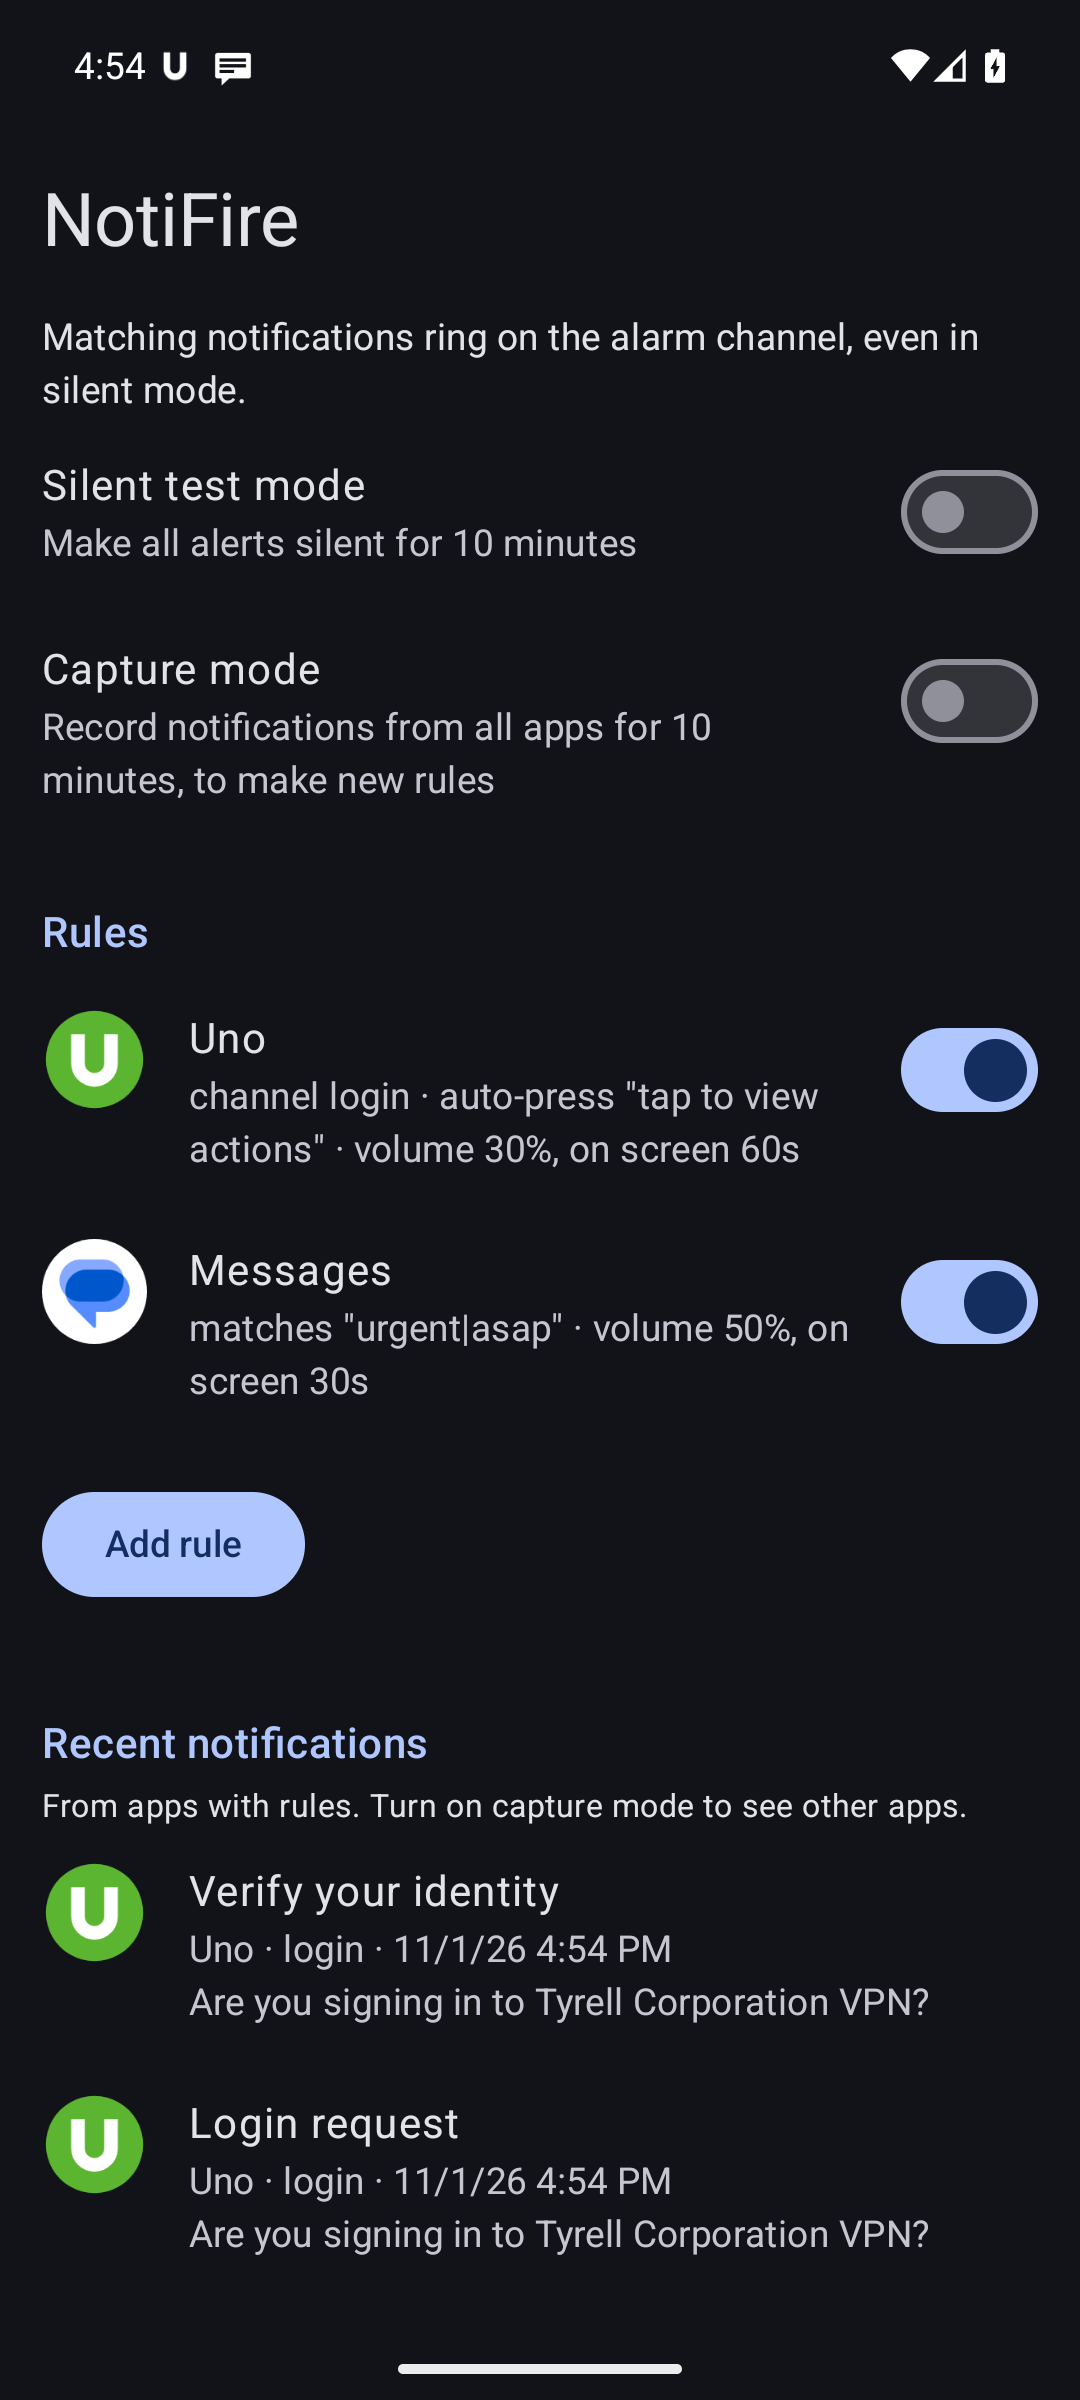
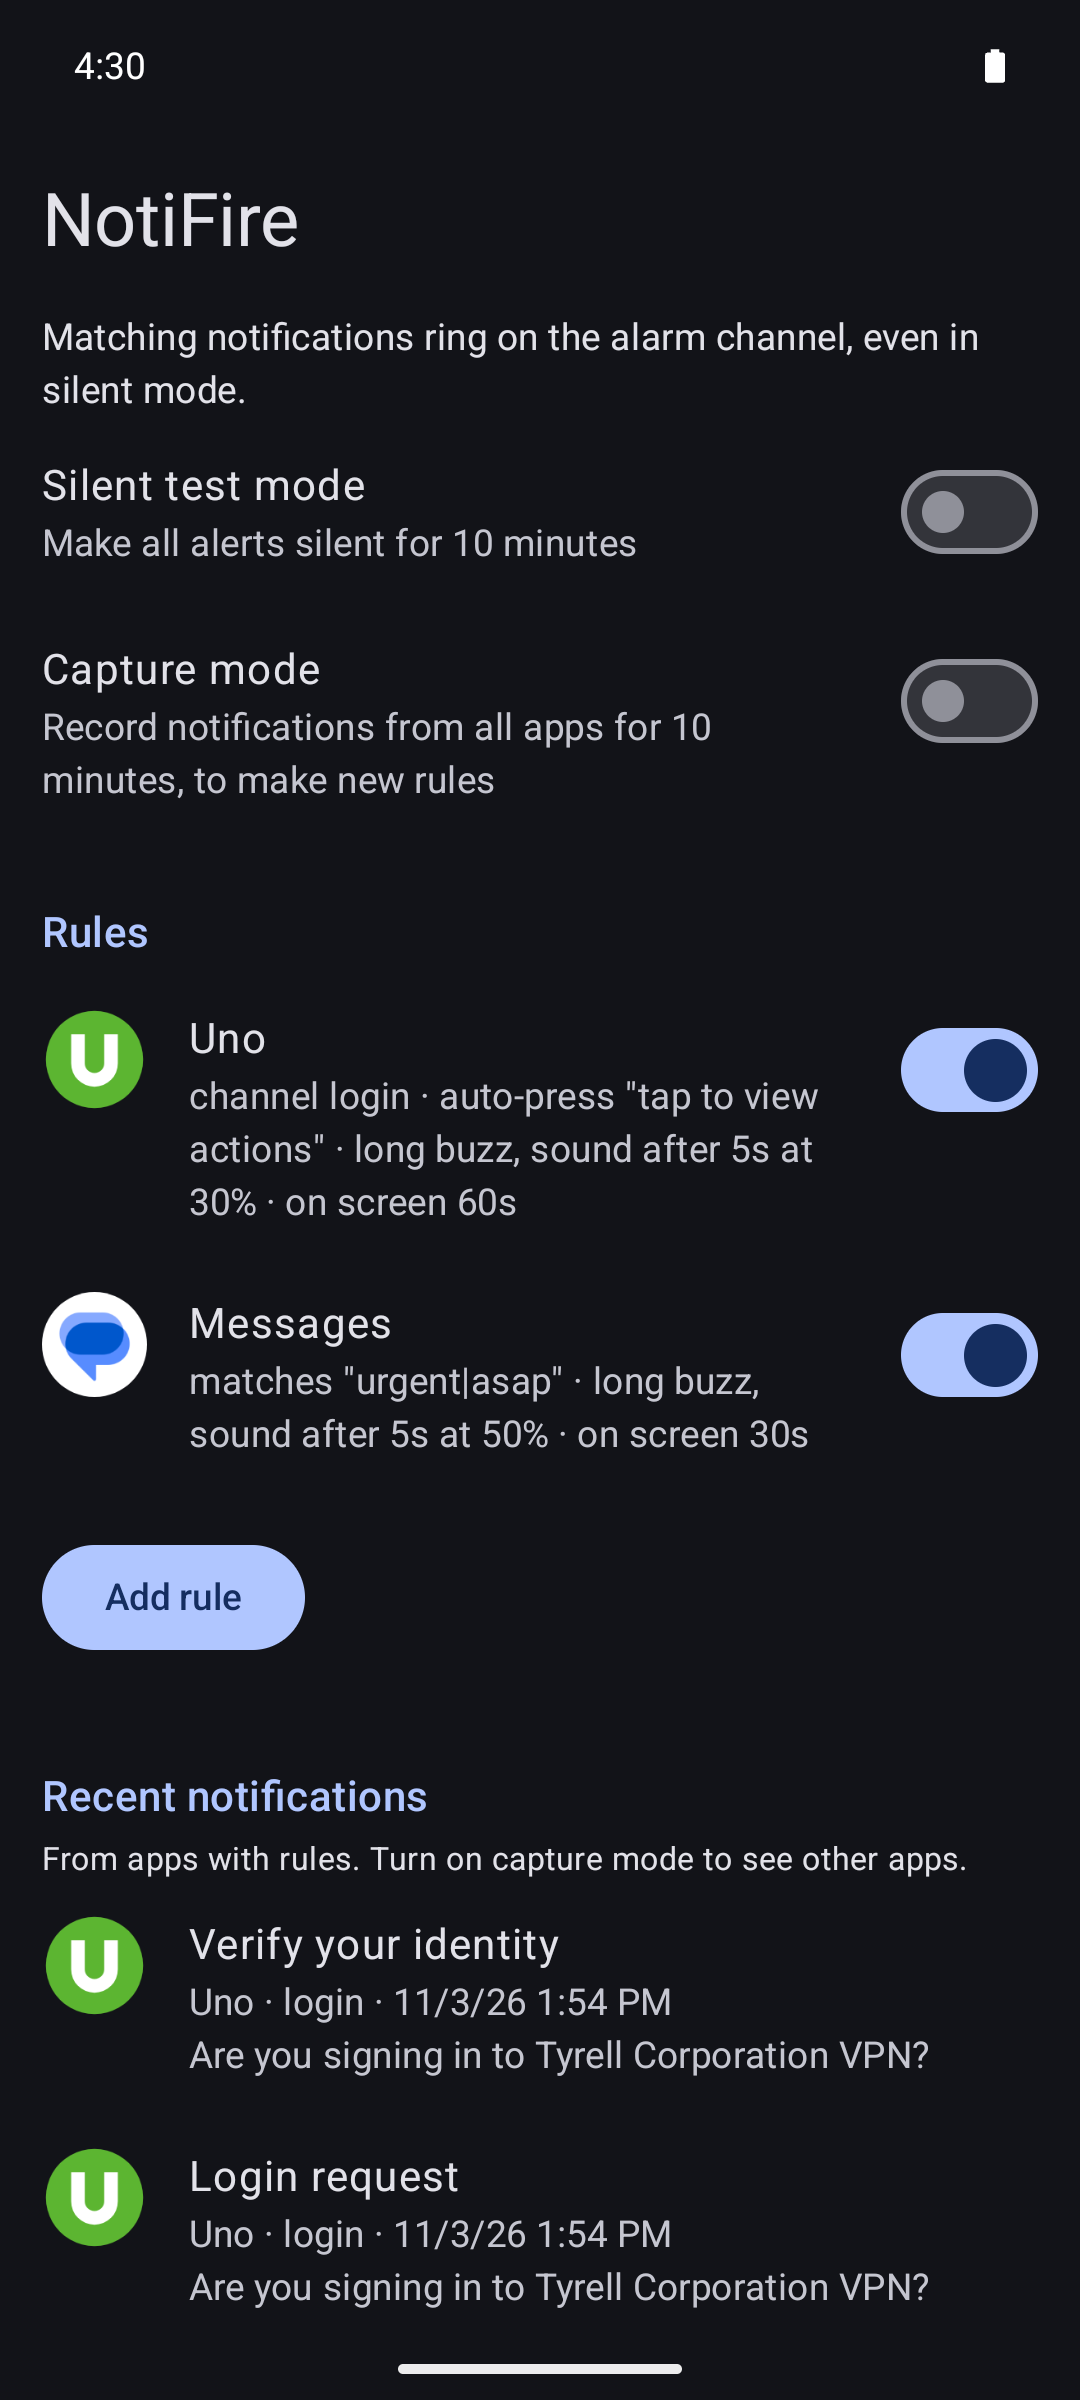
Escalating alerts, per-rule vibration, real Test button
- Alerts vibrate first; if nothing on the alert is pressed within the
  rule's escalateSec (default 5, 0 = sound right away), they vibrate
  again and play the sound. Any press cancels the escalation.
- Per-rule vibration pattern: off, short, long (default) or continuous.
- Rule editor: escalation delay field, vibration chips, and a Test
  button (real sound and vibration) next to Silent test. Tests stay up
  long enough to reach the escalation.
- Rule summary is shorter and may use three lines, so it no longer
  gets cut off.
- README and home / rule-editor screenshots updated.

diff --git a/app/src/main/java/com/mbafford/notifire/MainActivity.kt b/app/src/main/java/com/mbafford/notifire/MainActivity.kt
@@ -27,12 +27,14 @@ import androidx.compose.foundation.layout.padding
 import androidx.compose.foundation.layout.size
 import androidx.compose.foundation.lazy.LazyColumn
 import androidx.compose.foundation.lazy.items
+import androidx.compose.foundation.horizontalScroll
 import androidx.compose.foundation.rememberScrollState
 import androidx.compose.foundation.text.KeyboardOptions
 import androidx.compose.foundation.verticalScroll
 import androidx.compose.material3.Button
 import androidx.compose.material3.Card
 import androidx.compose.material3.CardDefaults
+import androidx.compose.material3.FilterChip
 import androidx.compose.material3.HorizontalDivider
 import androidx.compose.material3.ListItem
 import androidx.compose.material3.MaterialTheme
@@ -197,7 +199,7 @@ private fun Home(
             ListItem(
                 leadingContent = { AppIcon(r.pkg) },
                 headlineContent = { Text(r.appLabel) },
-                supportingContent = { Text(r.summary(), maxLines = 2, overflow = TextOverflow.Ellipsis) },
+                supportingContent = { Text(r.summary(), maxLines = 3, overflow = TextOverflow.Ellipsis) },
                 trailingContent = { Switch(r.enabled, onCheckedChange = { onToggle(r, it) }) },
                 modifier = Modifier.clickable { onEdit(r) },
             )
@@ -286,6 +288,8 @@ private fun RuleEditor(
     var autoPress by remember { mutableStateOf(rule.autoPress) }
     var soundUri by remember { mutableStateOf(rule.soundUri) }
     var volumePct by remember { mutableIntStateOf(rule.volumePct) }
+    var escalate by remember { mutableStateOf(rule.escalateSec.toString()) }
+    var vibration by remember { mutableStateOf(rule.vibration) }
     val pickSound = rememberLauncherForActivityResult(ActivityResultContracts.StartActivityForResult()) { res ->
         if (res.resultCode != Activity.RESULT_OK) return@rememberLauncherForActivityResult
         val picked = res.data?.getParcelableExtra(RingtoneManager.EXTRA_RINGTONE_PICKED_URI, Uri::class.java)
@@ -304,6 +308,8 @@ private fun RuleEditor(
         autoPress = autoPress.trim(),
         soundUri = soundUri,
         volumePct = volumePct,
+        escalateSec = escalate.toIntOrNull()?.coerceIn(0, 300) ?: 5,
+        vibration = vibration,
         enabled = true, // preview and test ignore the on/off switch
     )
 
@@ -359,6 +365,20 @@ private fun RuleEditor(
                 }) { Text("Choose") }
             },
         )
+        Text("Vibration", modifier = Modifier.padding(top = 8.dp))
+        Row(Modifier.horizontalScroll(rememberScrollState()), horizontalArrangement = Arrangement.spacedBy(8.dp)) {
+            Vibration.entries.forEach { v ->
+                FilterChip(selected = vibration == v, onClick = { vibration = v }, label = { Text(v.label) })
+            }
+        }
+        OutlinedTextField(
+            escalate, { escalate = it.filter(Char::isDigit) },
+            label = { Text("Vibrate only for (seconds) before sound") },
+            supportingText = { Text("Vibrates first; plays the sound if nothing is pressed by then. 0 = sound right away.") },
+            singleLine = true,
+            keyboardOptions = KeyboardOptions(keyboardType = KeyboardType.Number),
+            modifier = Modifier.fillMaxWidth(),
+        )
         Text("Volume: $volumePct% of alarm max", modifier = Modifier.padding(top = 8.dp))
         Slider(
             value = volumePct.toFloat(),
@@ -387,11 +407,19 @@ private fun RuleEditor(
 
         Row(horizontalArrangement = Arrangement.spacedBy(8.dp)) {
             Button(onClick = { onSave(draft.copy(enabled = enabled)) }) { Text("Save") }
-            OutlinedButton(onClick = {
-                Alerter.start(ctx, draft.copy(durationSec = 10), "test-${rule.id}", "Test alert", silent = true)
-            }) { Text("Silent test") }
             if (!isNew) TextButton(onClick = onDelete) { Text("Delete") }
             TextButton(onClick = onCancel) { Text("Cancel") }
+        }
+        // Tests use the unsaved settings and stay up long enough to reach the escalation.
+        val testRule = draft.copy(durationSec = maxOf(10, draft.escalateSec + draft.soundSec + 5))
+        Row(horizontalArrangement = Arrangement.spacedBy(8.dp), modifier = Modifier.padding(top = 4.dp)) {
+            // Real vibration and sound (unless silent test mode is on).
+            OutlinedButton(onClick = {
+                Alerter.start(ctx, testRule, "test-${rule.id}", "Test alert")
+            }) { Text("Test") }
+            OutlinedButton(onClick = {
+                Alerter.start(ctx, testRule, "test-${rule.id}", "Test alert", silent = true)
+            }) { Text("Silent test") }
         }
 
         SectionHeader("Recent from this app")
@@ -490,7 +518,9 @@ private fun Rule.summary(): String = listOfNotNull(
     channelId.ifBlank { null }?.let { "channel $it" },
     pattern.ifBlank { null }?.let { "matches \"$it\"" },
     autoPress.ifBlank { null }?.let { "auto-press \"$it\"" },
-    "volume $volumePct%, on screen ${durationSec}s",
+    (if (vibration == Vibration.OFF) "no buzz" else "${vibration.label.lowercase()} buzz") +
+        (if (escalateSec > 0) ", sound after ${escalateSec}s" else " + sound") + " at $volumePct%",
+    "on screen ${durationSec}s",
 ).joinToString(" · ").let { if (channelId.isBlank() && pattern.isBlank()) "any notification · $it" else it }
 
 private fun time(ms: Long): String = DateFormat.getDateTimeInstance(DateFormat.SHORT, DateFormat.SHORT).format(Date(ms))

diff --git a/app/src/main/java/com/mbafford/notifire/Alerter.kt b/app/src/main/java/com/mbafford/notifire/Alerter.kt
@@ -63,6 +63,7 @@ object Alerter {
     private val alertedAt = mutableMapOf<String, Long>()
     private val timeout = Runnable { appCtx?.let(::stop) }
     private val soundDone = Runnable { appCtx?.let(::stopSound) }
+    private val escalate = Runnable { escalateNow() }
     private val autoPressedAt = mutableMapOf<String, Long>()
     private val pendingAlerts = mutableMapOf<String, Runnable>()
 
@@ -137,8 +138,47 @@ object Alerter {
         stop(app)
         appCtx = app
         active = Active(rule, key, title, text, silent, contentIntent, actions)
-        Log.i("NotiFire", "alert rule=${rule.id} pkg=${rule.pkg} silent=$silent")
+        Log.i("NotiFire", "alert rule=${rule.id} pkg=${rule.pkg} silent=$silent escalateSec=${rule.escalateSec}")
 
+        // Vibrate first. If nothing is pressed within escalateSec, vibrate again and play the sound.
+        // Any press on the alert (button, open, stop) goes through stopSound, which cancels this.
+        vibrate(app, rule, silent)
+        if (rule.escalateSec <= 0) playSound(app, rule, silent)
+        else handler.postDelayed(escalate, rule.escalateSec * 1000L)
+
+        // A full-screen notification only takes over the screen when the phone is locked or idle.
+        // With "display over other apps" we're allowed to open the alert directly, even mid-use,
+        // and the notification is just a quiet status entry with a Stop button.
+        val direct = Settings.canDrawOverlays(app)
+        showNotification(app, rule, title, silent, direct)
+        if (direct) {
+            runCatching {
+                app.startActivity(Intent(app, AlertActivity::class.java).addFlags(Intent.FLAG_ACTIVITY_NEW_TASK))
+            }.onFailure { Log.w("NotiFire", "direct alert launch failed", it) }
+        }
+        handler.postDelayed(timeout, rule.durationSec * 1000L)
+    }
+
+    @Synchronized
+    private fun escalateNow() {
+        val a = active ?: return
+        val app = appCtx ?: return
+        Log.i("NotiFire", "no press after ${a.rule.escalateSec}s, escalating to sound silent=${a.silent}")
+        vibrate(app, a.rule, a.silent)
+        playSound(app, a.rule, a.silent)
+    }
+
+    /** Plays the rule's vibration pattern (see [Vibration]); a new call replaces the current one. */
+    private fun vibrate(app: Context, rule: Rule, silent: Boolean) {
+        val v = rule.vibration
+        if (silent || v == Vibration.OFF) return
+        app.getSystemService(VibratorManager::class.java).defaultVibrator.vibrate(
+            VibrationEffect.createWaveform(v.timings, v.repeat),
+            VibrationAttributes.createForUsage(VibrationAttributes.USAGE_ALARM),
+        )
+    }
+
+    private fun playSound(app: Context, rule: Rule, silent: Boolean) {
         val uri = rule.sound(app)
         if (!silent && uri != null) {
             val audio = app.getSystemService(AudioManager::class.java)
@@ -162,23 +202,7 @@ object Alerter {
             if (silent) volume = 0f
             play()
         }
-        if (!silent) app.getSystemService(VibratorManager::class.java).defaultVibrator.vibrate(
-            VibrationEffect.createWaveform(longArrayOf(0, 300, 150, 300), -1),
-            VibrationAttributes.createForUsage(VibrationAttributes.USAGE_ALARM),
-        )
-
-        // A full-screen notification only takes over the screen when the phone is locked or idle.
-        // With "display over other apps" we're allowed to open the alert directly, even mid-use,
-        // and the notification is just a quiet status entry with a Stop button.
-        val direct = Settings.canDrawOverlays(app)
-        showNotification(app, rule, title, silent, direct)
-        if (direct) {
-            runCatching {
-                app.startActivity(Intent(app, AlertActivity::class.java).addFlags(Intent.FLAG_ACTIVITY_NEW_TASK))
-            }.onFailure { Log.w("NotiFire", "direct alert launch failed", it) }
-        }
         handler.postDelayed(soundDone, rule.soundSec * 1000L)
-        handler.postDelayed(timeout, rule.durationSec * 1000L)
     }
 
     @Synchronized
@@ -187,9 +211,10 @@ object Alerter {
         if (key == active?.key) stop(ctx.applicationContext)
     }
 
-    /** Ends the sound and vibration but leaves the alert on screen. */
+    /** Ends the sound and vibration (and any pending escalation) but leaves the alert on screen. */
     @Synchronized
     fun stopSound(ctx: Context) {
+        handler.removeCallbacks(escalate)
         handler.removeCallbacks(soundDone)
         ringtone?.stop()
         ringtone = null

diff --git a/app/src/main/java/com/mbafford/notifire/Store.kt b/app/src/main/java/com/mbafford/notifire/Store.kt
@@ -24,6 +24,10 @@ data class Rule(
     val soundUri: String = "",
     /** Alarm volume while the sound plays, as a percent of max (restored afterwards). */
     val volumePct: Int = 30,
+    /** Vibrate first; if nothing is pressed within this many seconds, vibrate again and play the sound. 0 = sound right away. */
+    val escalateSec: Int = 5,
+    /** How hard to buzz, at the alert and again at escalation. */
+    val vibration: Vibration = Vibration.LONG,
 ) {
     /** The sound to play, or null for none. */
     fun sound(ctx: Context): Uri? = when (soundUri) {
@@ -52,7 +56,8 @@ data class Rule(
         .put("id", id).put("pkg", pkg).put("appLabel", appLabel).put("channelId", channelId)
         .put("pattern", pattern).put("durationSec", durationSec).put("soundSec", soundSec).put("enabled", enabled)
         .put("autoPress", autoPress).put("soundUri", soundUri)
-        .put("volumePct", volumePct)
+        .put("volumePct", volumePct).put("escalateSec", escalateSec)
+        .put("vibration", vibration.name.lowercase())
 
     companion object {
         fun fromJson(o: JSONObject) = Rule(
@@ -67,6 +72,8 @@ data class Rule(
             autoPress = o.optString("autoPress"),
             soundUri = o.optString("soundUri"),
             volumePct = o.optInt("volumePct", 30),
+            escalateSec = o.optInt("escalateSec", 5),
+            vibration = Vibration.parse(o.optString("vibration")),
         )
 
         const val NO_SOUND = "none"
@@ -87,6 +94,21 @@ data class Rule(
 
         /** Auto-press must never approve anything on its own; that would defeat 2FA prompts. */
         private val APPROVAL = Regex("approve|allow|accept|confirm|grant|\\byes\\b|verify", RegexOption.IGNORE_CASE)
+    }
+}
+
+/**
+ * Vibration patterns: alternating off/on milliseconds, and the index to repeat from (-1 = play once).
+ * A repeating pattern keeps going until a press, the end of the sound, or the alert closes.
+ */
+enum class Vibration(val label: String, val timings: LongArray, val repeat: Int) {
+    OFF("Off", longArrayOf(), -1),
+    SHORT("Short", longArrayOf(0, 300, 150, 300), -1),
+    LONG("Long", longArrayOf(0, 600, 250, 600, 250, 600), -1),
+    CONTINUOUS("Continuous", longArrayOf(0, 500, 400), 1);
+
+    companion object {
+        fun parse(s: String) = entries.firstOrNull { it.name.equals(s, ignoreCase = true) } ?: LONG
     }
 }
 

diff --git a/README.md b/README.md
@@ -13,7 +13,7 @@ I built it because two-factor push approvals arrive while my phone is on silent,
 
 <p>
   <img src="docs/screenshots/home.png" width="240" alt="Main screen listing two rules and recent notifications">
-  <img src="docs/screenshots/rule-editor.png" width="240" alt="Rule editor with channel, text filter, sound, volume and auto-press settings">
+  <img src="docs/screenshots/rule-editor.png" width="240" alt="Rule editor with vibration choices, delay before sound, volume, auto-press, and Test / Silent test buttons">
   <img src="docs/screenshots/app-picker.png" width="240" alt="Searchable app picker">
 </p>
 
@@ -22,11 +22,12 @@ I built it because two-factor push approvals arrive while my phone is on silent,
 ## What it does
 
 - **Rules per app.** Pick an app from a searchable list, or tap a recent notification to start a rule from it. You can narrow a rule to one notification channel and/or a regex on the title and text. The editor marks recent notifications from that app with ✓ or ✗ for whether the rule would match them.
-- **Gets through silent mode.** The sound plays on the alarm channel at a volume you set per rule (percent of alarm max). It plays once, with a short double buzz, and your alarm volume goes back to what it was afterwards. You can pick any system sound or one you've added (see [Custom sounds](#custom-sounds)).
+- **Gets through silent mode.** The sound plays on the alarm channel at a volume you set per rule (percent of alarm max). Alerts escalate: first a buzz (per rule: off, short, long or continuous), then, if you haven't pressed anything on the alert within a few seconds (5 by default, set per rule), another buzz plus the sound. The sound plays once, and your alarm volume goes back to what it was afterwards. You can pick any system sound or one you've added (see [Custom sounds](#custom-sounds)).
 - **Full-screen alert.** It wakes the screen and appears over the lock screen, or over the app you're using. It shows the notification's title, text and **buttons**, plus *Open* (does what tapping the notification does) and *Stop*.
 - **Every button asks for an unlock first.** Fingerprint, face or PIN is required before NotiFire presses anything, so nobody holding your locked phone can approve a login.
 - **Auto-press** for two-step notifications. Some two-factor apps' first push only has a "Tap To View Actions" button. A rule can press that button automatically, stay quiet, and alert on the updated notification that has *Approve* and *Deny*. Auto-press never presses buttons labeled approve, allow, accept, confirm, grant, yes or verify.
 - **The alert follows the notification.** If the source notification is updated, the alert shows the new version; if it's dismissed (say you approved on your watch), the alert closes.
+- **Test buttons** in the rule editor: *Test* runs a real alert (vibration and sound) with the unsaved settings; *Silent test* runs it at zero volume with no vibration.
 - **Silent test mode** for 10 minutes: alerts still run all the way through, at zero volume with no vibration. It turns itself off.
 - **Only looks at apps you have rules for.** Notifications from other apps are dropped immediately, without being read or stored. To set up a rule for a new app, turn on **capture mode**: for 10 minutes NotiFire records notifications from every app so you can tap one to start a rule. When capture ends, entries from apps without a rule are deleted.
 
@@ -110,13 +111,15 @@ adb shell "run-as com.mbafford.notifire sh -c 'cat > files/rules.json'" < rules.
     "soundUri": "",
     "volumePct": 30,
     "soundSec": 3,
+    "escalateSec": 5,
+    "vibration": "long",
     "durationSec": 60,
     "enabled": true
   }
 ]
 ```
 
-`soundUri`: blank means the default alarm, `"none"` means no sound, anything else is a `content://` URI from the picker. `soundSec` only cuts off long sounds; every sound plays once.
+`soundUri`: blank means the default alarm, `"none"` means no sound, anything else is a `content://` URI from the picker. `soundSec` only cuts off long sounds; every sound plays once. `escalateSec` is how long the alert only vibrates before the sound plays (0 = sound right away). `vibration` is `off`, `short`, `long` (default) or `continuous` (keeps buzzing until you press something or the sound ends).
 
 ## Demo app: Uno
 
